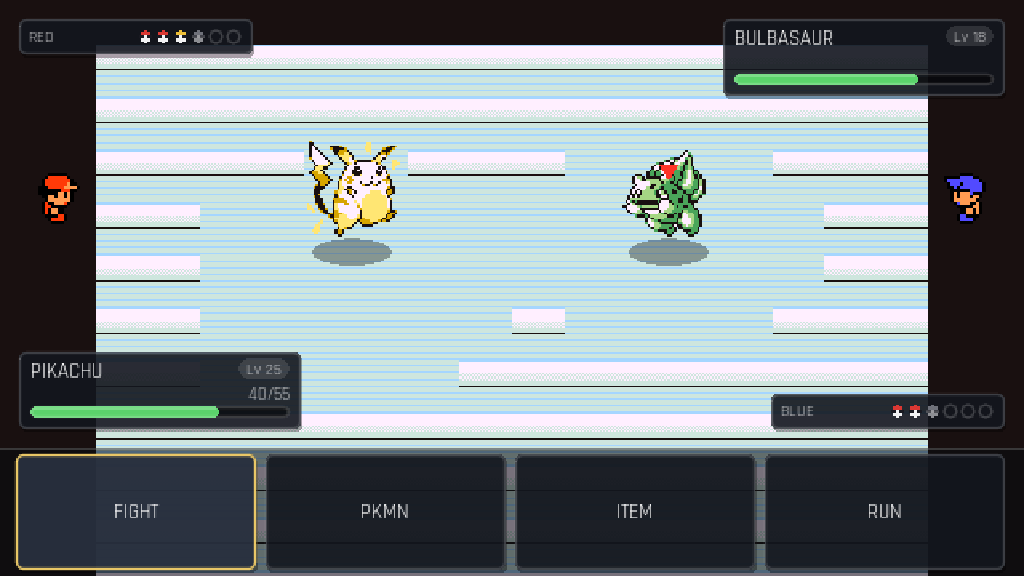
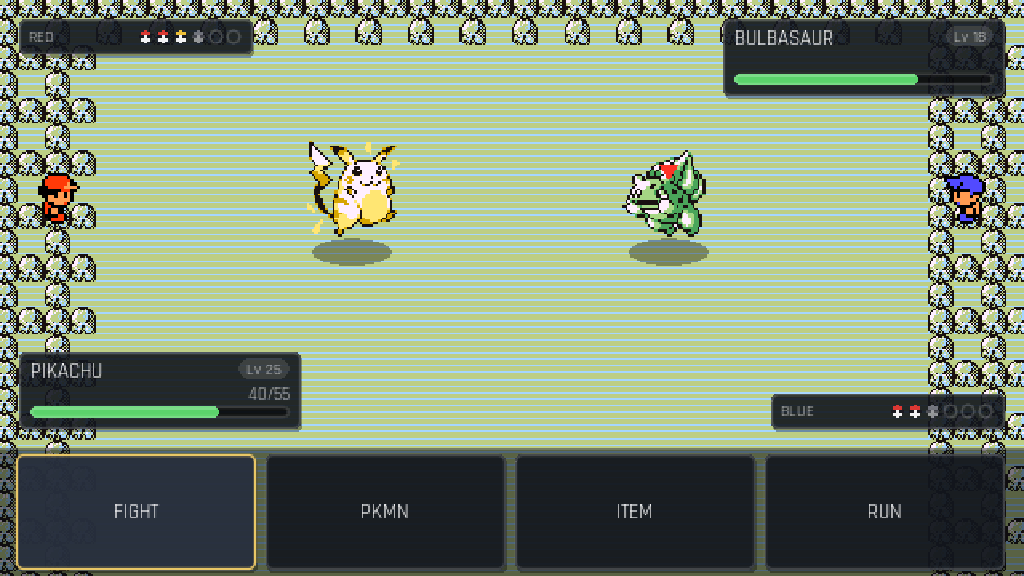
fix: gym arenas were stamping a striped hybrid as the field
A gym sheet has no grass tile, so the first extra walkable block — a wall/floor stripe — became the surround. Use the plain floor, put the sheet's Rhydon statues on the rim, and wear the town palette (PEWTER_GYM → PEWTER) instead of inheriting Route.

diff --git a/CHANGELOG.md b/CHANGELOG.md
@@ -19,7 +19,10 @@ here must match `manifest.version`.
   outdoor and indoor generators) and are only the no-ROM fallbacks.
   Seat layout is unchanged. README **BATTLE — ANYWHERE** now shows the
   three looks: route grass + tree wall, indoor house floor, Pewter Gym's
-  own sheet.
+  own sheet. A gym or cave with no grass tile uses that sheet's plain
+  floor, not the first striped hybrid (which stamped as scanlines). A
+  gym rim is the sheet's Rhydon statues, and the fight wears that
+  town's palette (`PEWTER_GYM` → PEWTER) rather than inheriting ROUTE.
 
 ### Fixed
 
